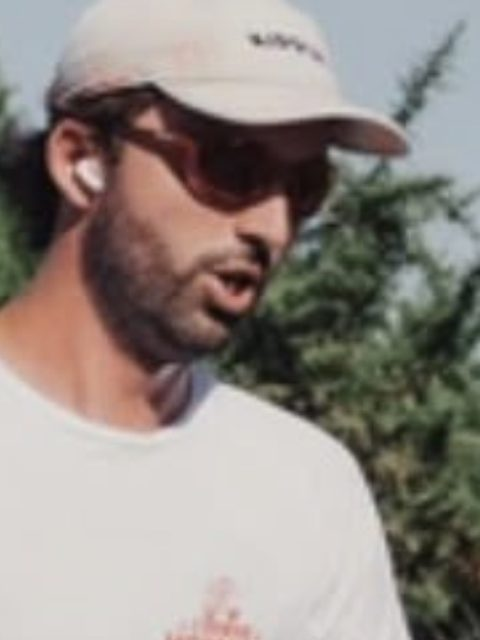
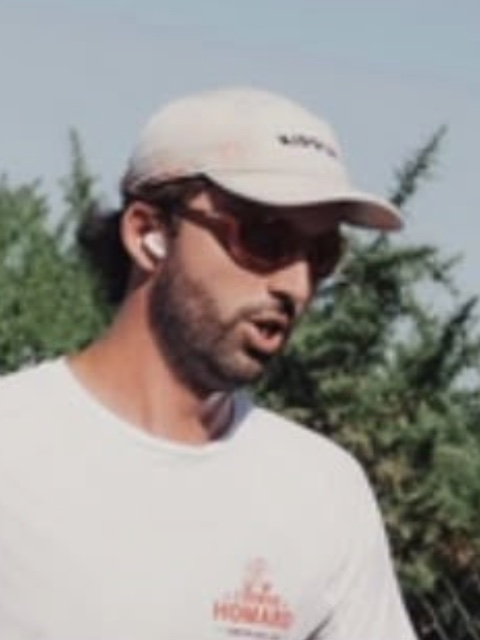
Adhérents : nouvelle photo de Baptiste

diff --git a/donnees/membres.js b/donnees/membres.js
@@ -31,7 +31,7 @@ const MEMBRES=[
   {nom:'Enzo', citation:'Lent mais résistant', photo:'images/membres/enzo.jpg?v=1'},
   {nom:'Maxence', citation:'J\'ai réussi à participer à l\'EKIDEN !!', photo:'images/membres/maxence.jpg?v=1'},
   {nom:'Milena', citation:'Beaucoup d\'ambition, un cardio en négociation.', photo:'images/membres/milena.jpg?v=1'},
-  {nom:'Baptiste', citation:'On attend la citation de Baptiste parce que l\'autre n\'était pas drôle', photo:'images/membres/baptiste.jpg?v=1'},
+  {nom:'Baptiste', citation:'On attend la citation de Baptiste parce que l\'autre n\'était pas drôle', photo:'images/membres/baptiste.jpg?v=2'},
   {nom:'Thomas Nou', citation:'Viva la vida', orga:true, photo:'images/membres/thomas-nou.jpg?v=1', fond:'images/equipe/cartes/thomas-evenementiel.png?v=1'},
   {nom:'Clémence N', citation:'Petite phrase à se répéter sans modération pendant qu\'on crache nos poumons : « on est pas des merguez »', photo:'images/membres/clemence-n.jpg?v=1'},
   {nom:'Marie', citation:'Soufle limité, bavardages illimités', photo:'images/membres/marie.jpg?v=1'},

diff --git a/notre-equipe.html b/notre-equipe.html
@@ -371,7 +371,7 @@ nav a:focus-visible,.nav-mobile a:focus-visible,footer a:focus-visible,footer bu
 
 <a id="back-to-top" href="#" onclick="event.preventDefault();window.scrollTo({top:0,behavior:'smooth'});" aria-label="Retour en haut">↑</a>
 
-<script src="donnees/membres.js?v=1061"></script>
+<script src="donnees/membres.js?v=1062"></script>
 <script>
 
 /* ===== EN IMAGES (mosaïque équipe, comme la galerie des adhérents) ===== */

diff --git a/nos-adherents.html b/nos-adherents.html
@@ -636,7 +636,7 @@ nav a:focus-visible,.nav-mobile a:focus-visible,footer a:focus-visible,footer bu
     </div>
   </div>
 </div>
-<script src="donnees/membres.js?v=1061"></script>
+<script src="donnees/membres.js?v=1062"></script>
 <script>
 
 /* ===== DONNÉES ===== */
